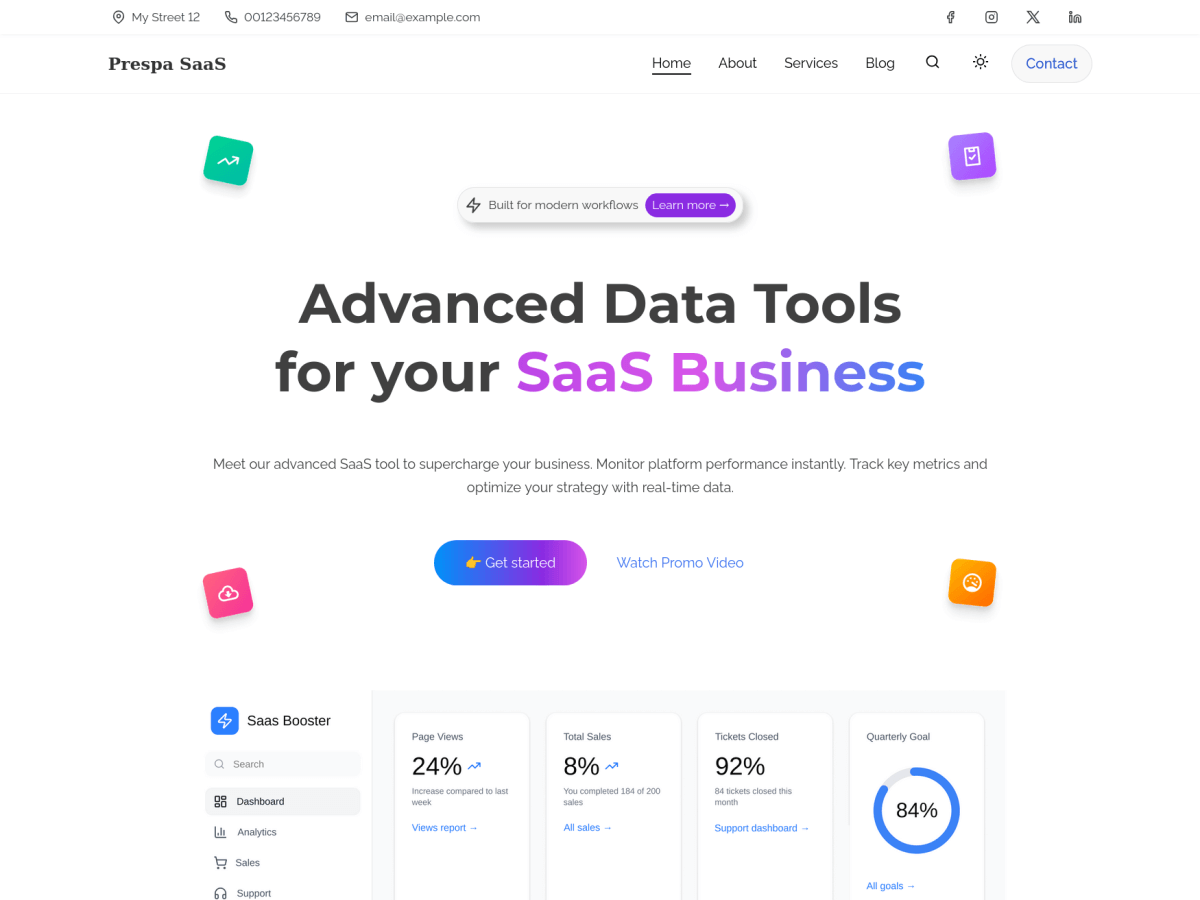
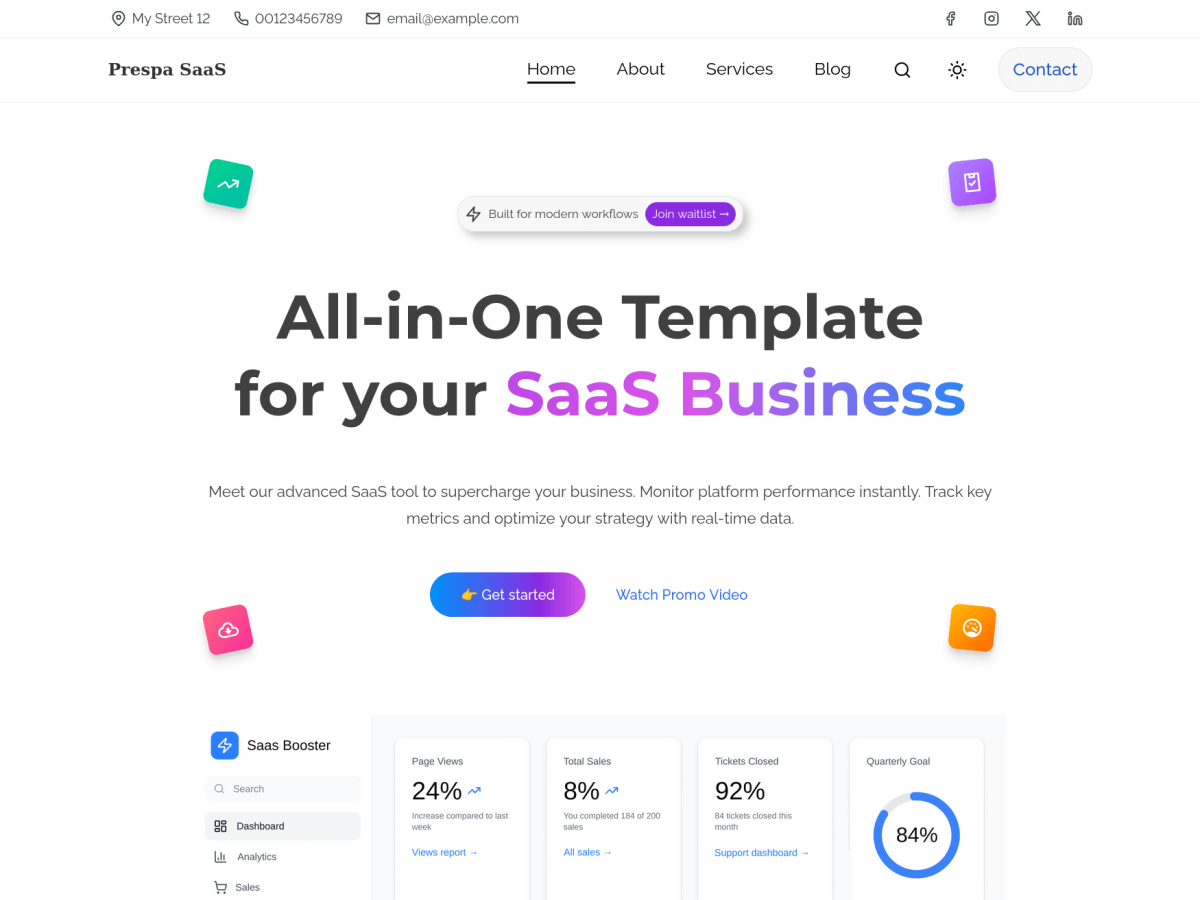
Fix category box border radius and update screenshot

diff --git a/style.css b/style.css
@@ -1,14 +1,14 @@
 /*
  Theme Name:        Prespa SaaS
  Theme URI:         https://nasiothemes.com/themes/prespa/
- Description:       Prespa SaaS serves as a child theme of Prespa, inheriting all the features of Prespa. It is designed for SaaS (Software as a Service) and startup websites. The theme includes specialized block patterns for pricing tables, feature lists, services, testimonials and others. It supports responsive layouts and includes a native toggle for switching between light and dark mode. Theme demo: https://prespa-saas-demo.nasiothemes.com/
+ Description:       Prespa SaaS serves as a child theme of Prespa, inheriting all the features of Prespa. It is specifically designed for SaaS (Software as a Service) businesses, digital agency, startup and ai automation websites, providing a modern and professional look to effectively showcase products and services. The theme is made with the distinct purpose to convert site visitors into customers. It includes specialized block patterns for pricing tables, feature lists, services, testimonials and others. The theme supports responsive layouts and includes a native toggle that allows visitors to switch between light and dark mode. Theme demo: https://prespa-saas-demo.nasiothemes.com/
  Author:            Atanas Yonkov
  Author URI:        http://nasiothemes.com
  Template:          prespa
- Requires at least: 6.7
+ Requires at least: 6.1
  Tested up to:      6.9
  Requires PHP:      5.6
- Version:           1.0.5
+ Version:           1.0.7
  License:           GNU General Public License v2 or later
  License URI:       http://www.gnu.org/licenses/gpl-2.0.html
  Text Domain:       prespa-saas
@@ -203,7 +203,7 @@
 	border-radius: 1rem;
 }
 
-.cat-links a {
+.top-meta .cat-links a {
 	border: 1px solid #e3e3e3;
 	border-radius: .5rem;
 }

diff --git a/patterns/01-ps-header.php b/patterns/01-ps-header.php
@@ -34,14 +34,14 @@
 
 <!-- wp:group {"style":{"border":{"radius":{"topLeft":"1.25rem","topRight":"1.25rem","bottomLeft":"1.25rem","bottomRight":"1.25rem"}},"spacing":{"blockGap":"0px","padding":{"right":"0.5rem","bottom":"0.13rem","left":"0.5rem","top":"0.13rem"}}},"backgroundColor":"blue-violet","layout":{"type":"constrained"}} -->
 <div class="wp-block-group has-blue-violet-background-color has-background" style="border-top-left-radius:1.25rem;border-top-right-radius:1.25rem;border-bottom-left-radius:1.25rem;border-bottom-right-radius:1.25rem;padding-top:0.13rem;padding-right:0.5rem;padding-bottom:0.13rem;padding-left:0.5rem"><!-- wp:paragraph {"align":"left","textColor":"white"} -->
-<p class="has-text-align-left has-white-color has-text-color"><?php esc_html_e( 'Learn more →', 'prespa-saas' ); ?></p>
+<p class="has-text-align-left has-white-color has-text-color"><?php esc_html_e( 'Join waitlist →', 'prespa-saas' ); ?></p>
 <!-- /wp:paragraph --></div>
 <!-- /wp:group --></div>
 <!-- /wp:group --></div>
 <!-- /wp:group -->
 
 <!-- wp:heading {"textAlign":"center","level":1,"style":{"typography":{"lineHeight":"1.25"}},"fontSize":"xx-large"} -->
-<h1 class="wp-block-heading has-text-align-center has-xx-large-font-size" style="line-height:1.25"><?php echo esc_html__( 'Advanced Data Tools', 'prespa-saas' ); ?><br><?php echo esc_html__( 'for your', 'prespa-saas' ); ?> <span class="prespa-saas-animated-text"><?php echo esc_html__( 'SaaS Business', 'prespa-saas' ); ?></span></h1>
+<h1 class="wp-block-heading has-text-align-center has-xx-large-font-size" style="line-height:1.25"><?php echo esc_html__( 'All-in-One Template', 'prespa-saas' ); ?><br><?php echo esc_html__( 'for your', 'prespa-saas' ); ?> <span class="prespa-saas-animated-text"><?php echo esc_html__( 'SaaS Business', 'prespa-saas' ); ?></span></h1>
 <!-- /wp:heading -->
 
 <!-- wp:paragraph {"align":"center"} -->
